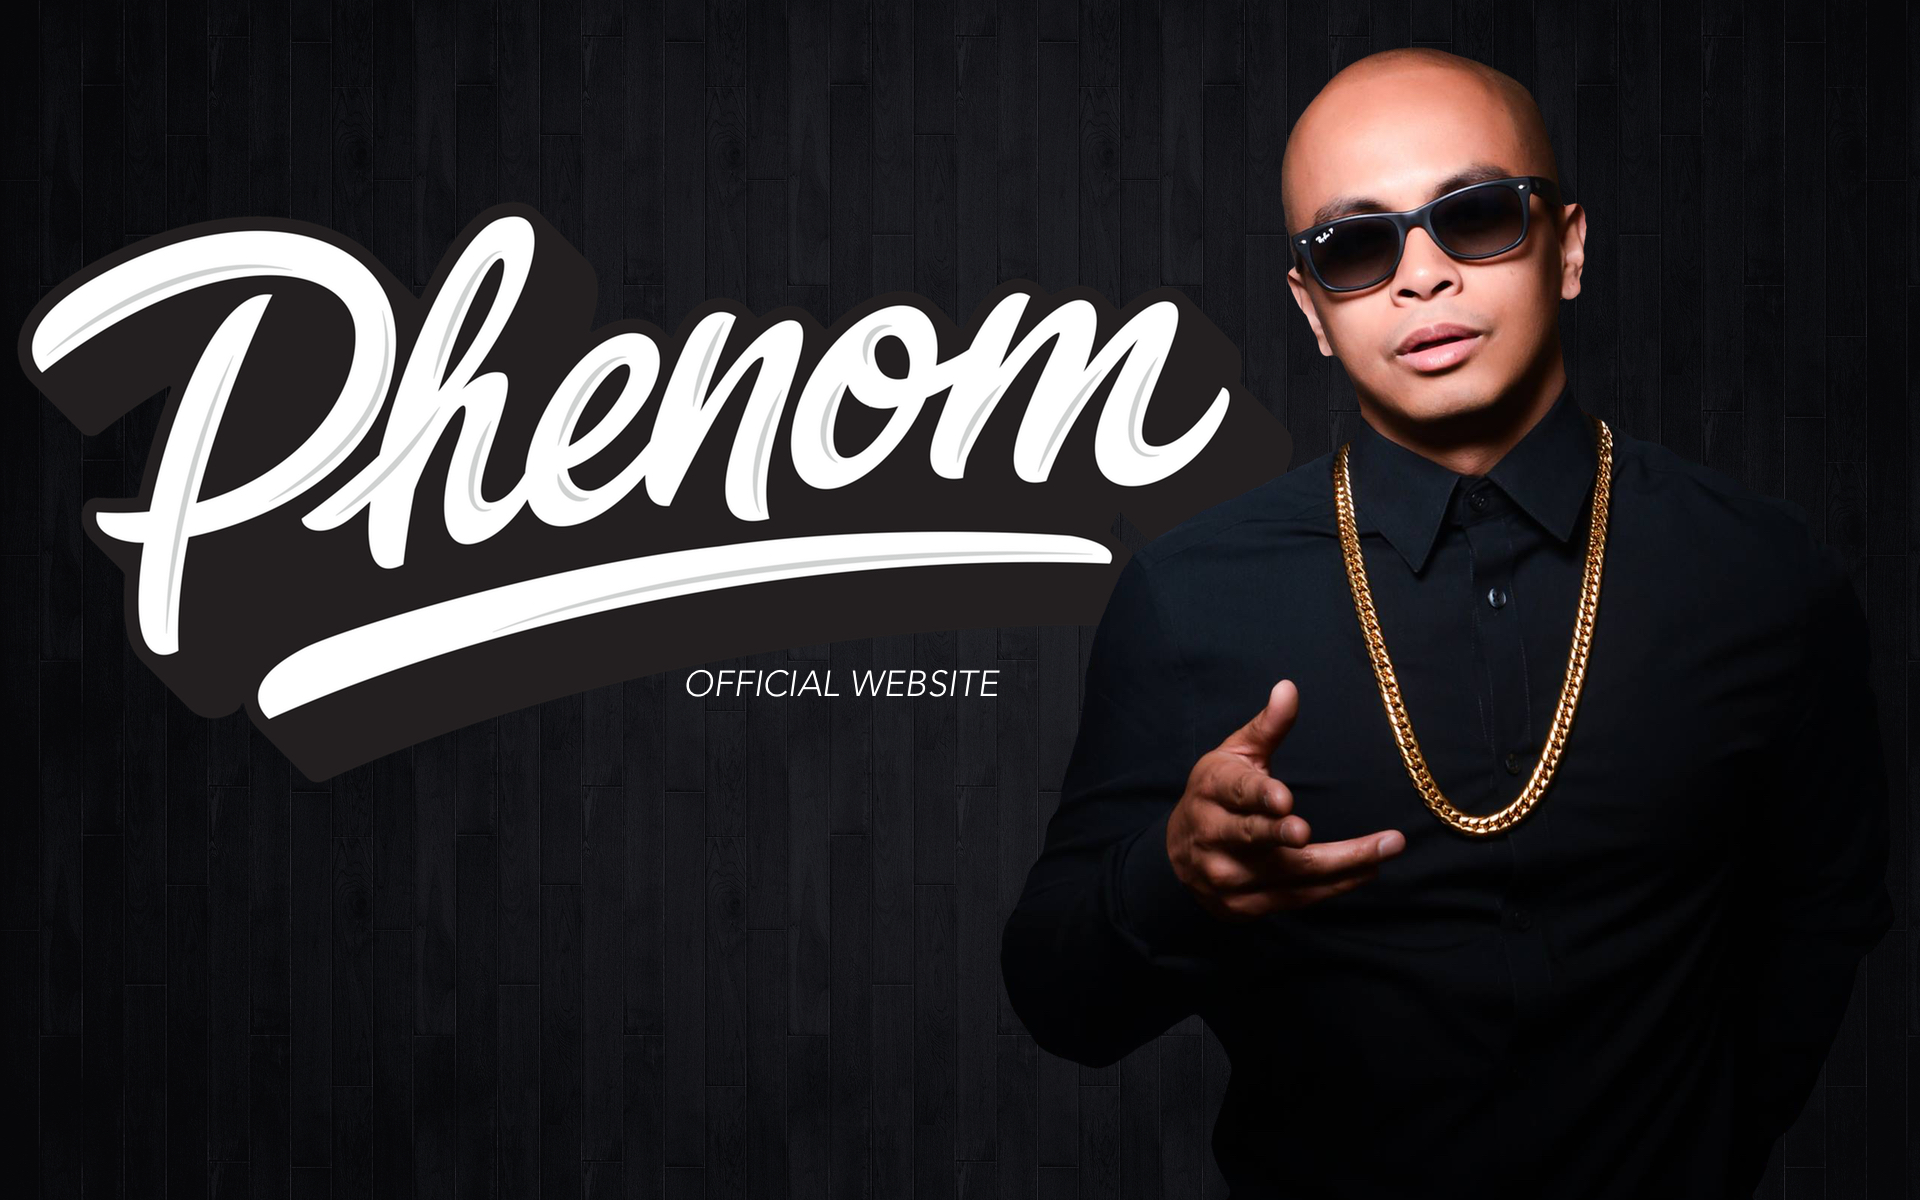
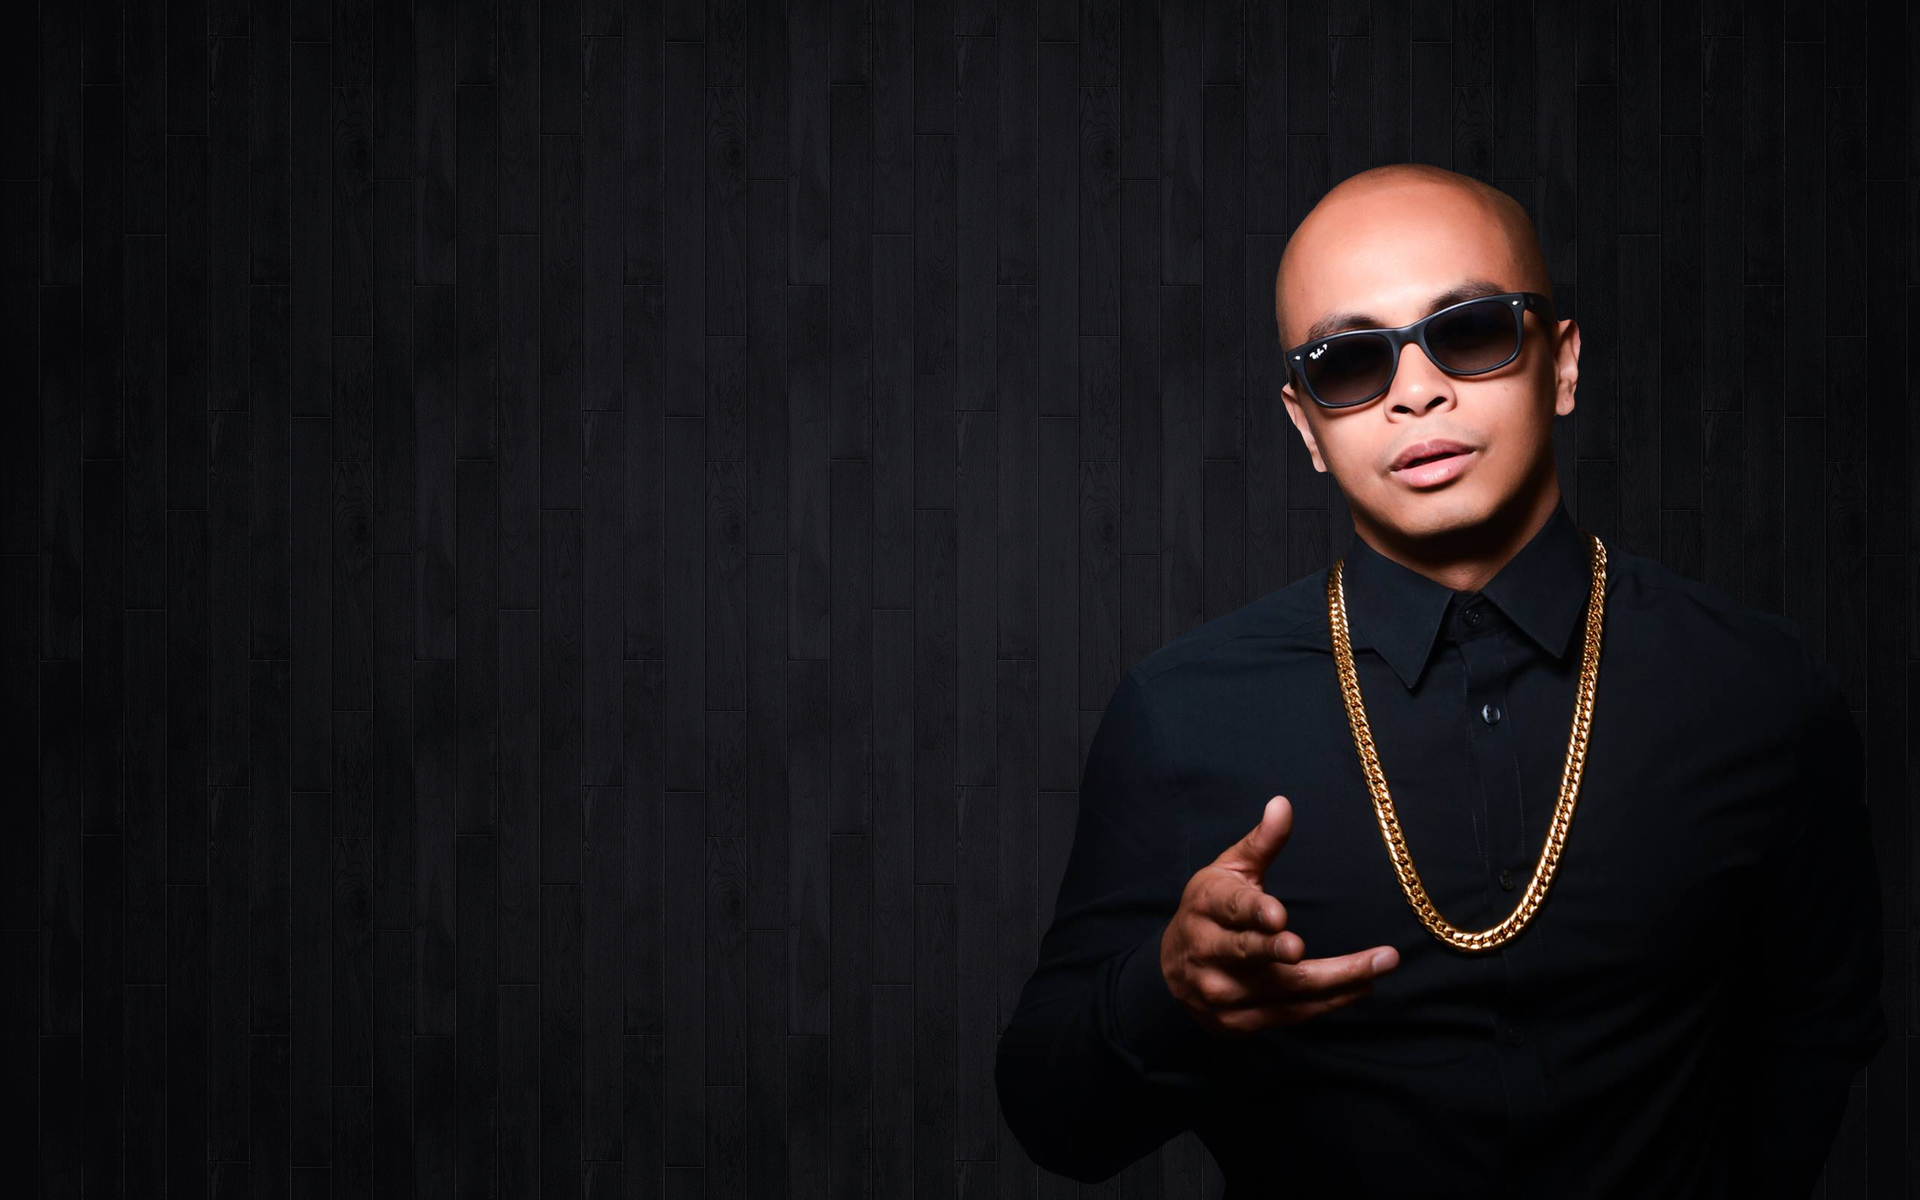
updated LA night

Changed region(s): [[0.0, 0.0308, 0.8438, 0.8633], [0.3438, 0.555, 0.5312, 0.5858]]

diff --git a/index.html b/index.html
@@ -19,7 +19,9 @@
     <link href="https://fonts.googleapis.com/css?family=Lora:400,700,400italic,700italic" rel="stylesheet" type="text/css">
     <link href="https://fonts.googleapis.com/css?family=Montserrat:400,700" rel="stylesheet" type="text/css">
     <script src="https://use.fontawesome.com/e38421faf0.js"></script>
-
+     <!-- Go to www.addthis.com/dashboard to customize your tools --> 
+     <script type="text/javascript" src="//s7.addthis.com/js/300/addthis_widget.js#pubid=ra-587d9a48f0722a57"></script> 
+              
     <!-- Theme CSS -->
     <link href="css/grayscale.css" rel="stylesheet">
 
@@ -68,6 +70,21 @@
                     <li>
                         <a class="page-scroll" href="#contact">Contact</a>
                     </li>
+                     <li>
+                        <a href="https://twitter.com/DJPhenomOnline" ><i class="fa fa-twitter fa-fw"></i> <span class="network-name"></span></a>
+                    </li>
+                    <li>
+                        <a href="https://www.facebook.com/RealDJPhenom/"><i class="fa fa-facebook fa-fw"></i> <span class="network-name"></span></a>
+                    </li>
+                     <li>
+                        <a href="https://www.instagram.com/djphenom/"><i class="fa fa-instagram fa-fw"></i> <span class="network-name"></span></a>
+                    </li>
+                    <li>
+                        <a href="https://soundcloud.com/dj-phenom"><i class="fa fa-soundcloud fa-fw"></i> <span class="network-name"></span></a>
+                    </li>
+                    <li>
+                        <a href="https://www.mixcloud.com/realdjphenom/"><i class="fa fa-mixcloud fa-fw"></i> <span class="network-name"></span></a>
+                    </li>
                 </ul>
             </div>
             <!-- /.navbar-collapse -->
@@ -80,8 +97,10 @@
         <div class="intro-body">
             <div class="container">
                 <div class="row">
-                    <div class="col-md-8 col-md-offset-2"> 
-                    </div>
+                   
+                       <img src="img/Logo.png" class="img-responsive">
+                 
+                    
                 </div>
             </div>
         </div>
@@ -90,13 +109,13 @@
     <!-- About Section -->
     <section id="bio" class="container content-section text-center">
         <div class="row">
-            <div class="col-lg-8 col-lg-offset-2">
+            <div class="col-lg-12">
                 <h2>BIO</h2>
                 <p>DJ Phenom began cultivating his passion for music at a young age. Growing up in New York allowed him access to a city steeped in culture, diversity, and talent. He emerged on the city scene in 2005, quickly earning a repution for producing high energy that keeps the crowd hyped. His ability to read a crowd--and deliver--has landed him former residencies at NYC's Avalon (formerly Limelight) and Webster Hall, as well guest appearances in Las Vegas, Miami, and West Hollywood.
                 </p>
                 <p>Sharing his craft with the world has always been DJ Phenom's main goal. He began working with Scratch DJ Academy in 2010, which led the way for several Celebrity Guest DJ opportunities on Royal Carribean's Oasis of the Seas. 
                 </p>
-                <p>DJ Phenom is more than an expert party rocker. His ability to seamlessly mix and manipulate music led to a former collaboration with Richmond, VA's HOT100.9FM. As the radio station's mix show DJ, Phenom crafted weekly mixes that showcased his talent, but also reflected his unique style that transcends across all genres.   </p>
+                <p>DJ Phenom is more than an expert party rocker. His ability to seamlessly mix and manipulate music led to a former collaboration with Richmond, VA's HOT100.9FM. As the radio station's mix show DJ, Phenom crafted weekly mixes that showcased his talent, but also reflected his unique style that transcends across all genres.</p>
                 <p>
                 In addition to effortlessly rocking the crowd, DJ Phenom plays an average of 30 corporate events per year for a diverse group of clients such as Macy's, Nordstrom, T-Mobile, H&M, and Victoria's Secret. 
                 </p>
@@ -145,29 +164,23 @@
                 <p>For all inquiries, reach out to:</p>
                 <p><a href="mailto:phenom.nyc@gmail.com">phenom.nyc@gmail.com</a>
                 </p>
-                <ul class="list-inline banner-social-buttons socialtext">
-                    <li>
-                        <a href="https://twitter.com/DJPhenomOnline" ><i class="fa fa-twitter fa-fw"></i> <span class="network-name">Twitter</span></a>
-                    </li>
-                    <li>
-                        <a href="https://www.facebook.com/RealDJPhenom/"><i class="fa fa-facebook fa-fw"></i> <span class="network-name">Facebook</span></a>
-                    </li>
-                     <li>
-                        <a href="https://www.instagram.com/djphenom/"><i class="fa fa-instagram fa-fw"></i> <span class="network-name">Instagram</span></a>
-                    </li>
-                    <li>
-                        <a href="https://soundcloud.com/dj-phenom"><i class="fa fa-soundcloud fa-fw"></i> <span class="network-name">Soundcloud</span></a>
-                    </li>
-                </ul>
+                
             </div>
+            <div class="row">
+            <div class = "col-lg-8 col-lg-offset-2">
+                 
+                </div>
+                </div>
         </div>
     </section>
 
    
     <!-- Footer -->
     <footer>
-        <div class="container text-center">
+        <div class="container text-center">   
             <p>dj phenom. 2017.</p>
+            <!-- Go to www.addthis.com/dashboard to customize your tools --> <div class="addthis_inline_follow_toolbox"></div>
+            
         </div>
     </footer>
 

diff --git a/css/grayscale.css b/css/grayscale.css
@@ -222,6 +222,9 @@ a:focus {
 }
 .content-section {
   padding-top: 100px;
+    font-family: "Montserrat", "Helvetica Neue", Helvetica, Arial, sans-serif;
+    text-transform: uppercase;
+
 }
 .download-section {
   width: 100%;
@@ -246,7 +249,9 @@ a:focus {
   background-size: cover;
   -o-background-size: cover;
 }
-
+#bio{
+  background: url(../img/bio.jpg) no-repeat bottom center scroll;
+}
 .socialtext{
   color:white;
 }
